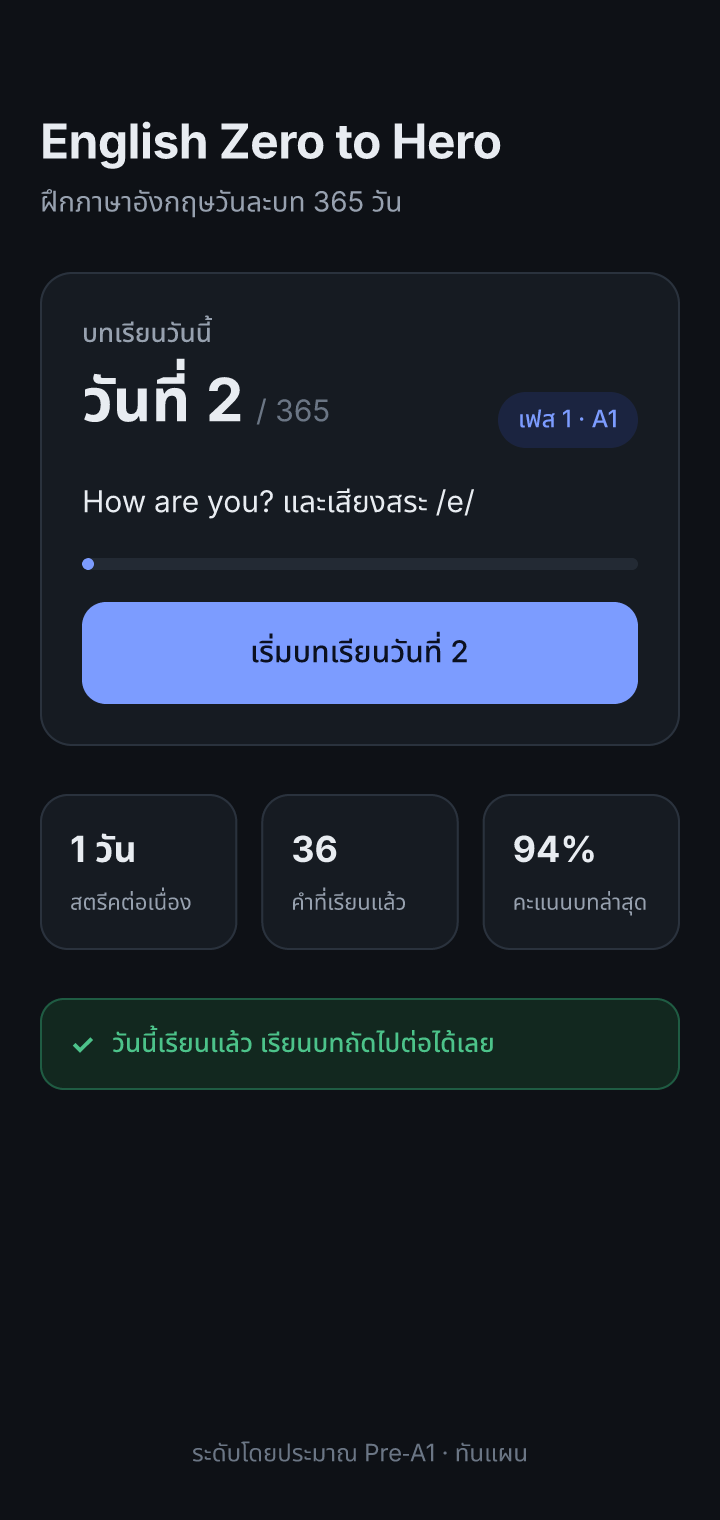
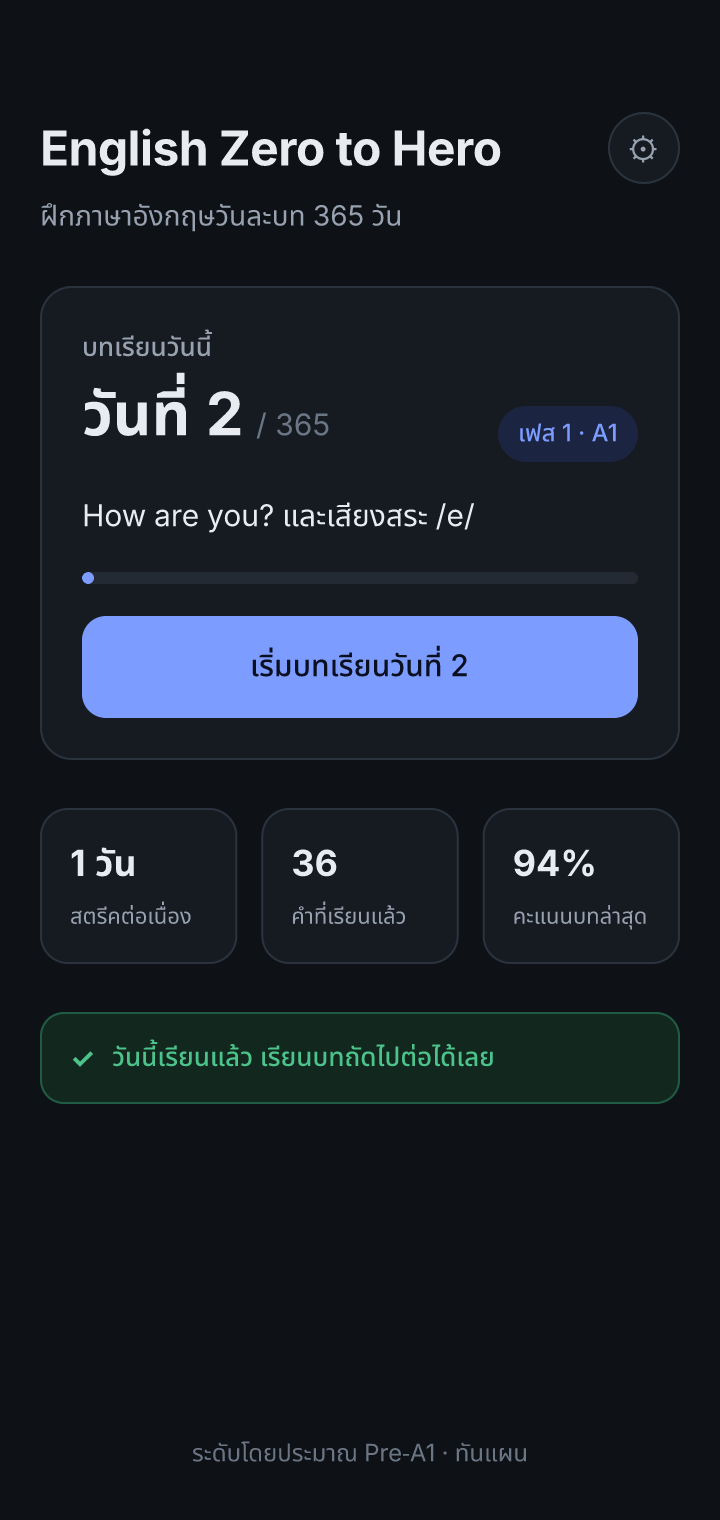
design: theme setting (light, dark, system) screens and decision

diff --git a/design/ui-dark-v1/build.py b/design/ui-dark-v1/build.py
@@ -95,7 +95,11 @@ def home(x, c, label):
     s = screen("Home", x, c, label)
     body = col(s, "Body", gap=24, pad=[56, 20, 20, 20])
     head = col(body, "Title", gap=6)
-    text(head, "English Zero to Hero", 24, c["text"], EN, "Bold", letterSpacing=-0.3)
+    hr0 = row(head, "Title row", mainAlign="spaceBetween")
+    text(hr0, "English Zero to Hero", 24, c["text"], EN, "Bold", letterSpacing=-0.3)
+    gear = frame(hr0, "Settings button", layout="horizontal", mainAlign="center", crossAlign="center", w=36, h=36,
+                 sizingH="fixed", sizingV="fixed", cornerRadius=18, fill=c["surface"], stroke=c["border"], strokeWeight=1)
+    text(gear, "⚙", 16, c["muted"], IPA, "Regular")
     text(head, "ฝึกภาษาอังกฤษวันละบท 365 วัน", 14, c["muted"])
     card = col(body, "Today card", gap=16, pad=20, fill=c["surface"], cornerRadius=16, stroke=c["border"], strokeWeight=1)
     r = row(card, "Day row", mainAlign="spaceBetween", crossAlign="max")
@@ -238,6 +242,36 @@ def completion(x, c, label):
     button(bottom, "กลับหน้าแรก", c, "secondary")
     return s
 
+def settings(x, c, label, selected):
+    s = screen("Settings / Theme", x, c, label)
+    top = col(s, "Top", gap=0)
+    head = row(top, "Header", gap=12, pad=[20, 20, 12, 20])
+    text(head, "←", 18, c["muted"], EN, "Regular")
+    text(head, "ตั้งค่า", 20, c["text"], TH, "Bold")
+    body = col(top, "Body", gap=22, pad=[8, 20, 0, 20])
+    sec = col(body, "Theme section", gap=10)
+    text(sec, "ธีม", 13, c["muted"], TH, "Medium")
+    seg = row(sec, "Segmented", gap=4, pad=4, fill=c["surface2"], cornerRadius=12, stroke=c["border"], strokeWeight=1)
+    for lab in ["สว่าง", "มืด", "ตามเครื่อง"]:
+        on = lab == selected
+        b = frame(seg, f"Segment / {lab}", layout="horizontal", mainAlign="center", crossAlign="center",
+                  padding=[10, 8, 10, 8], sizingH="fill", sizingV="hug", cornerRadius=9,
+                  fill=c["accent"] if on else "none")
+        text(b, lab, 14, c["accentText"] if on else c["text"], TH, "Medium")
+    text(sec, "ตามเครื่อง: เปลี่ยนสว่างหรือมืดตามการตั้งค่าของมือถือหรือคอมโดยอัตโนมัติ", 12, c["faint"], TH, "Regular",
+         sizingH="fill", textAutoResize="height", lineHeight="150%")
+    lst = col(body, "Other settings", gap=0, fill=c["surface"], cornerRadius=14, stroke=c["border"], strokeWeight=1, clip=True)
+    rows = [("สำเนียงเสียงอ่าน", "อเมริกัน"), ("ความเร็วเสียงเริ่มต้น", "ปกติ"), ("เตือนให้ฝึก", "20:00")]
+    for i, (k, v) in enumerate(rows):
+        r = row(lst, f"Row / {k}", pad=[14, 16, 14, 16], mainAlign="spaceBetween")
+        text(r, k, 14, c["text"], TH, "Regular")
+        text(r, v + "  ›", 14, c["muted"], TH, "Regular")
+        if i < len(rows) - 1:
+            frame(lst, "Divider", h=1, sizingH="fill", sizingV="fixed", fill=c["border"], layout="horizontal")
+    foot = col(s, "Footer", pad=[0, 20, 24, 20])
+    text(foot, "ธีมจำไว้ในอุปกรณ์นี้ แต่ละเครื่องตั้งต่างกันได้", 12, c["faint"], TH, "Regular", textAlign="center", sizingH="fill")
+    return s
+
 GAP = 420
 home(0 * GAP, DARK, "1 · หน้าแรก (มืด)")
 phoneme(1 * GAP, DARK, "2 · แนะนำเสียง")
@@ -246,6 +280,8 @@ translate(3 * GAP, DARK, "4 · แปลประโยค กำลังพิ
 completion(4 * GAP, DARK, "5 · จบบทเรียน")
 home(5 * GAP + 60, LIGHT, "6 · หน้าแรก (สว่าง) สำหรับเทียบ")
 minimal_pair(6 * GAP + 60, LIGHT, "7 · ฟังแยกเสียง (สว่าง)")
+settings(7 * GAP + 120, DARK, "8 · ตั้งค่าธีม (เลือกมืด)", "มืด")
+settings(8 * GAP + 120, LIGHT, "9 · ตั้งค่าธีม (เลือกสว่าง)", "สว่าง")
 
 json.dump(steps, open(sys.argv[1], "w"), ensure_ascii=False, indent=0)
 print(len(steps), "steps")

diff --git a/design/README.md b/design/README.md
@@ -11,7 +11,13 @@
 | `ui-dark-v1/screens/*.png` | แต่ละหน้าจอ (360×760 ที่ 2x) |
 | `ui-dark-v1/build.py` | สคริปต์ที่สร้างไฟล์ออกแบบ |
 
-หน้าจอ: หน้าแรก, แนะนำเสียง, ฟังแยกเสียงหลังตรวจคำตอบ, แปลประโยคขณะพิมพ์, จบบทเรียน (โหมดมืด) และหน้าแรกกับฟังแยกเสียงในโหมดสว่างไว้เทียบ
+หน้าจอ: หน้าแรก, แนะนำเสียง, ฟังแยกเสียงหลังตรวจคำตอบ, แปลประโยคขณะพิมพ์, จบบทเรียน (โหมดมืด) และหน้าแรกกับฟังแยกเสียงในโหมดสว่างไว้เทียบ และหน้าตั้งค่าธีมทั้งสองโหมด
+
+### ธีม (ผู้ใช้ตัดสินใจ 2026-11-25)
+เลือกได้ 3 แบบในหน้าตั้งค่า: **สว่าง**, **มืด**, **ตามเครื่อง** (ค่าเริ่มต้น ตาม `prefers-color-scheme` ของอุปกรณ์)
+- จำค่าไว้ต่ออุปกรณ์ (cookie) ไม่เก็บในฐานข้อมูล มือถือกับคอมจึงตั้งต่างกันได้ และหน้าแรกไม่กะพริบผิดสีตอนโหลด
+- สีทั้งหมดในโค้ดต้องอ้างผ่านตัวแปรสี (design token) ชุดเดียว ห้ามใส่รหัสสีตรงๆ ใน component
+- เข้าหน้าตั้งค่าจากปุ่มเฟืองที่มุมขวาบนของหน้าแรก
 
 ### แนวทาง
 - สีเน้นสีเดียว (น้ำเงินอมม่วง) ใช้กับปุ่มหลักและแถบความคืบหน้าเท่านั้น
